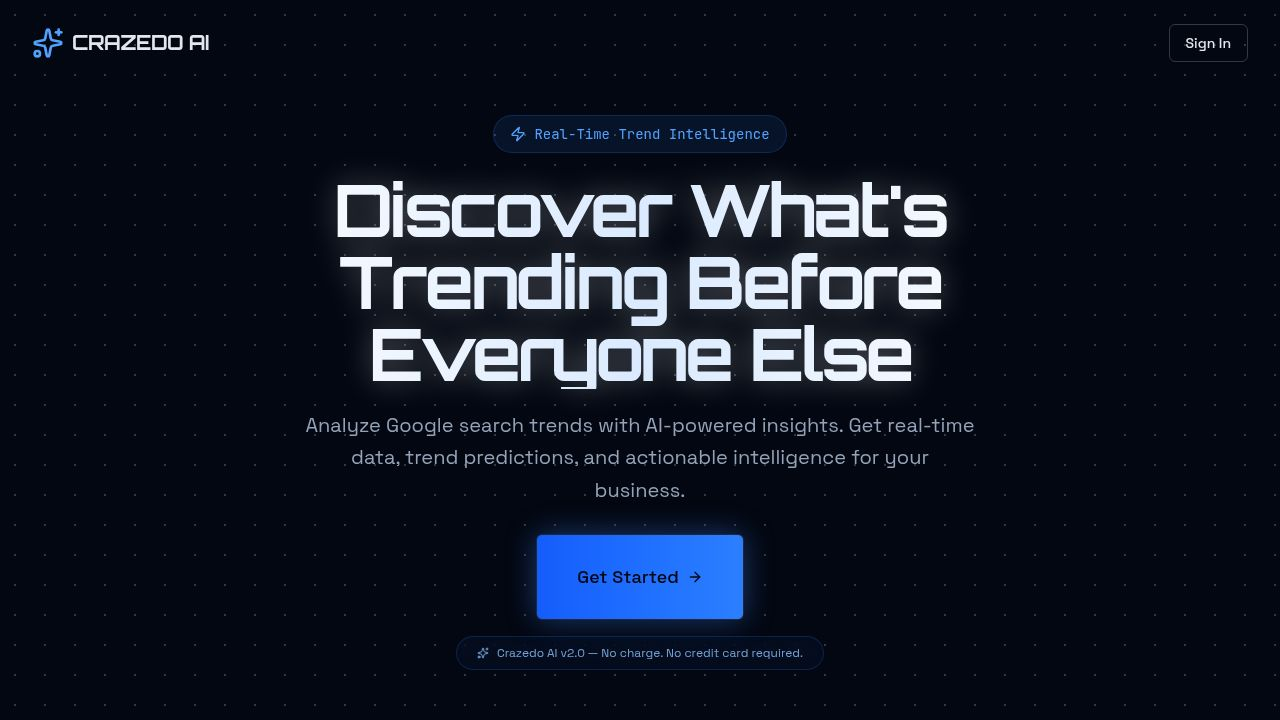
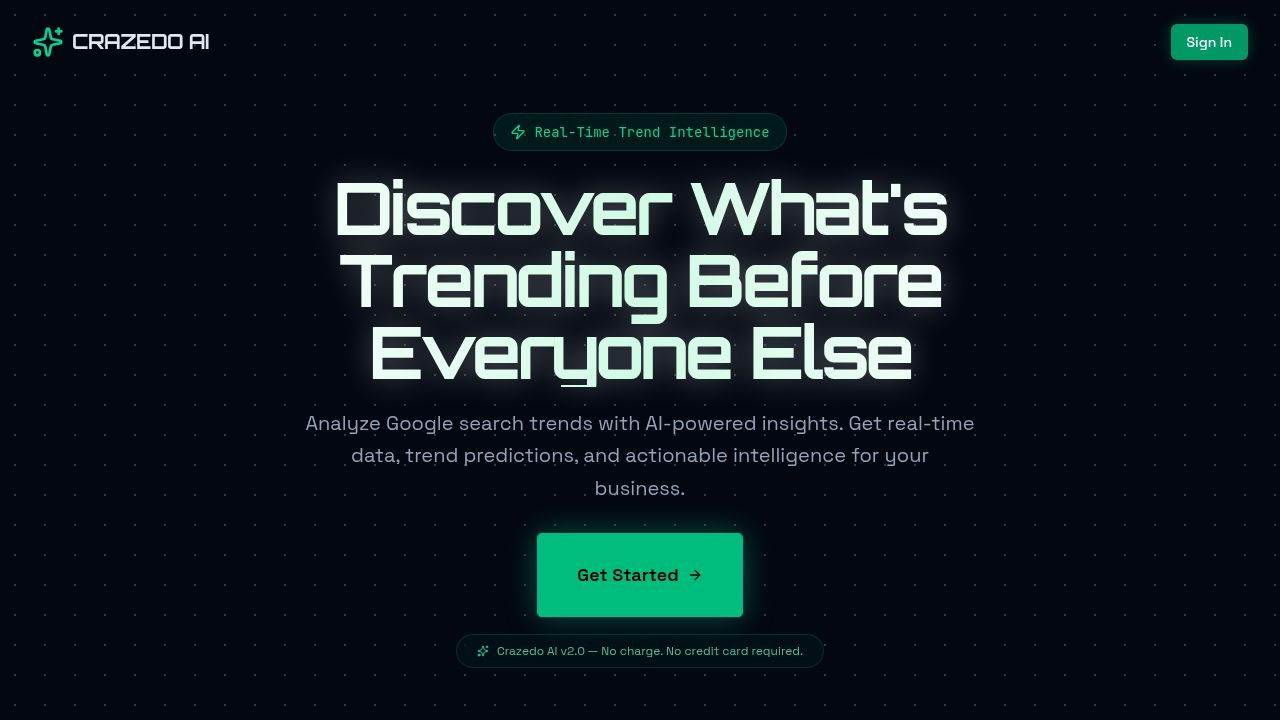
Update website to a consistent green theme
Update the landing page UI to use an all-green color scheme, changing the header sparkles, sign-in button, badges, title gradient, and AI-powered analysis card from blue to green.

Replit-Commit-Author: Agent
Replit-Commit-Session-Id: 7613e958-ef38-426c-b546-82c1ec04ea77
Replit-Commit-Checkpoint-Type: full_checkpoint
Replit-Commit-Event-Id: 6dedc067-fe64-45a8-896d-22e7e6c7285c
Replit-Commit-Screenshot-Url: https://storage.googleapis.com/screenshot-production-us-central1/670e5098-6651-4ee7-a7ab-e3f02323c6df/7613e958-ef38-426c-b546-82c1ec04ea77/B0uNALQ

diff --git a/client/src/pages/landing.tsx b/client/src/pages/landing.tsx
@@ -12,12 +12,12 @@ export default function Landing() {
       <div className="relative z-10 max-w-7xl mx-auto px-4 md:px-8">
         <header className="flex items-center justify-between py-6">
           <div className="flex items-center gap-2">
-            <Sparkles className="w-8 h-8 text-blue-400" />
+            <Sparkles className="w-8 h-8 text-emerald-400" />
             <span className="text-xl font-display font-bold tracking-tight">CRAZEDO AI</span>
           </div>
           <a href="/api/login">
             <Button 
-              className="bg-blue-600 hover:bg-blue-500 text-white border-0 shadow-[0_0_15px_rgba(59,130,246,0.3)] hover:shadow-[0_0_25px_rgba(59,130,246,0.5)] transition-all duration-300"
+              className="bg-emerald-600 hover:bg-emerald-500 text-white border-0 shadow-[0_0_15px_rgba(16,185,129,0.3)] hover:shadow-[0_0_25px_rgba(16,185,129,0.5)] transition-all duration-300"
               data-testid="button-login"
             >
               Sign In
@@ -26,12 +26,12 @@ export default function Landing() {
         </header>
 
         <main className="flex flex-col items-center text-center mt-[2vh] md:mt-[4vh] space-y-5">
-          <div className="inline-flex items-center gap-2 px-4 py-2 rounded-full bg-blue-500/10 border border-blue-500/20 text-blue-400 text-sm font-mono">
+          <div className="inline-flex items-center gap-2 px-4 py-2 rounded-full bg-emerald-500/10 border border-emerald-500/20 text-emerald-400 text-sm font-mono">
             <Zap className="w-4 h-4" />
             Real-Time Trend Intelligence
           </div>
           
-          <h1 className="text-5xl md:text-7xl font-display font-bold tracking-tighter text-transparent bg-clip-text bg-gradient-to-r from-white via-blue-100 to-white drop-shadow-[0_0_15px_rgba(255,255,255,0.3)] max-w-4xl">
+          <h1 className="text-5xl md:text-7xl font-display font-bold tracking-tighter text-transparent bg-clip-text bg-gradient-to-r from-white via-emerald-100 to-white drop-shadow-[0_0_15px_rgba(255,255,255,0.3)] max-w-4xl">
             Discover What's Trending Before Everyone Else
           </h1>
           
@@ -51,7 +51,7 @@ export default function Landing() {
                 <ArrowRight className="w-5 h-5" />
               </Button>
             </a>
-            <div className="flex items-center gap-2 text-xs text-blue-300/80 border border-blue-500/20 rounded-full px-5 py-2 bg-blue-500/5 backdrop-blur-sm">
+            <div className="flex items-center gap-2 text-xs text-emerald-300/80 border border-emerald-500/20 rounded-full px-5 py-2 bg-emerald-500/5 backdrop-blur-sm">
               <Sparkles className="w-3 h-3" />
               <span>Crazedo AI v2.0 — No charge. No credit card required.</span>
             </div>
@@ -65,8 +65,8 @@ export default function Landing() {
                 Access real-time Google Trends data for any keyword or topic.
               </p>
             </div>
-            <div className="p-6 rounded-xl bg-white/5 border border-white/10 text-left hover:bg-white/[0.08] hover:border-white/20 transition-all duration-300 hover:shadow-[0_0_20px_rgba(59,130,246,0.1)]">
-              <Sparkles className="w-10 h-10 text-blue-400 mb-4" />
+            <div className="p-6 rounded-xl bg-white/5 border border-white/10 text-left hover:bg-white/[0.08] hover:border-white/20 transition-all duration-300 hover:shadow-[0_0_20px_rgba(16,185,129,0.1)]">
+              <Sparkles className="w-10 h-10 text-emerald-400 mb-4" />
               <h3 className="text-lg font-semibold mb-2">AI-Powered Analysis</h3>
               <p className="text-muted-foreground text-sm">
                 Get intelligent insights and trend predictions powered by Crazedo AI v2.0.
